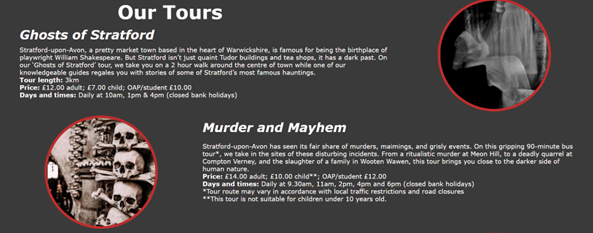
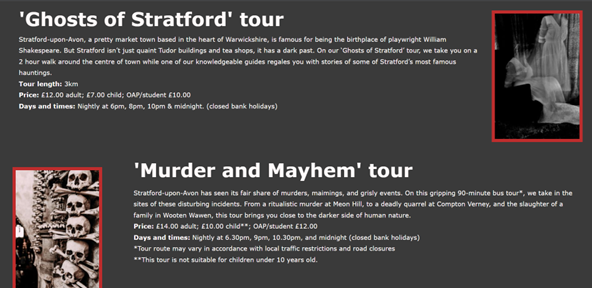
Add media queries for mobile devices

diff --git a/assets/css/style.css b/assets/css/style.css
@@ -27,9 +27,10 @@ body {
 
 #heading {
     font-weight: 700;
-    letter-spacing: 0.2rem;
-    font-size: 4vw;
-    padding: 1rem;
+    letter-spacing: 0.2rem;    
+    padding: 2rem;
+    font-size: 3rem;
+    text-align: center;
 }
 
 #slogan {
@@ -224,4 +225,53 @@ footer > ul {
 }
 
 /* Media queries */
+
+/* Screens up to 480 pixels */
+
+@media screen and (max-width: 480px) {
+
+    .display {
+        flex-direction: column;
+    }
+
+    #heading {
+        padding: 1rem;
+    }
+
+    #slogan {
+        font-size: 1.5rem;
+        padding: 1rem;
+    }
+
+    #ghosts-stratford {
+        padding-left: 1.5rem;        
+    }
+
+    #ghosts-stratford-info {
+        padding-left: 1.5rem;
+    }
+
+   #murder-stratford {
+        padding-left: 1.5rem;
+   }
+
+    #murder-stratford-info {
+        padding-bottom: 2rem;
+        padding-left: 1.5rem;
+    }
+
+    #about-us-heading {
+        padding-left: 1.5rem;
+    }
+
+    #team-background {
+        padding-left: 1.5rem;
+    }
+
+    #sign-up-heading {
+        font-size: 2rem;
+    }
+}
+    
+
 

diff --git a/README.md b/README.md
@@ -2,7 +2,7 @@
 
 After Dark Tours: Stratford-upon-Avon is a website aimed at visitors and tourists who are interesting in the dark, creepy and disturbing history of the area. Much of the marketing aimed at visitors to Stratford centres around Shakespeare’s birthplace, the theatre, or its many pretty streets and quaint buildings. However, there is a market for people who want an alternative experience and that is what After Dark Tours aims to provide. The site’s objective is to entice visitors to the website to sign up for one of the tours based around the less palatable side of a famous tourist town, including hauntings, murders and other grisly occurences. 
 
-![Responsive design screenshot](documentation/responsive_screenshot.png)
+![Responsive design screenshot]()
 
 ## **UX**
 
@@ -88,7 +88,7 @@ Mobile phones (screens from 320px to 480px)
 
 Tablet computers (screens from 481px to 768px)
 
-![Tblet screenshot](documentation/tablet_screenshot.png)
+![Tablet screenshot](documentation/tablet_screenshot.png)
 
 Laptops (screens from 769px to 1024px)
 
